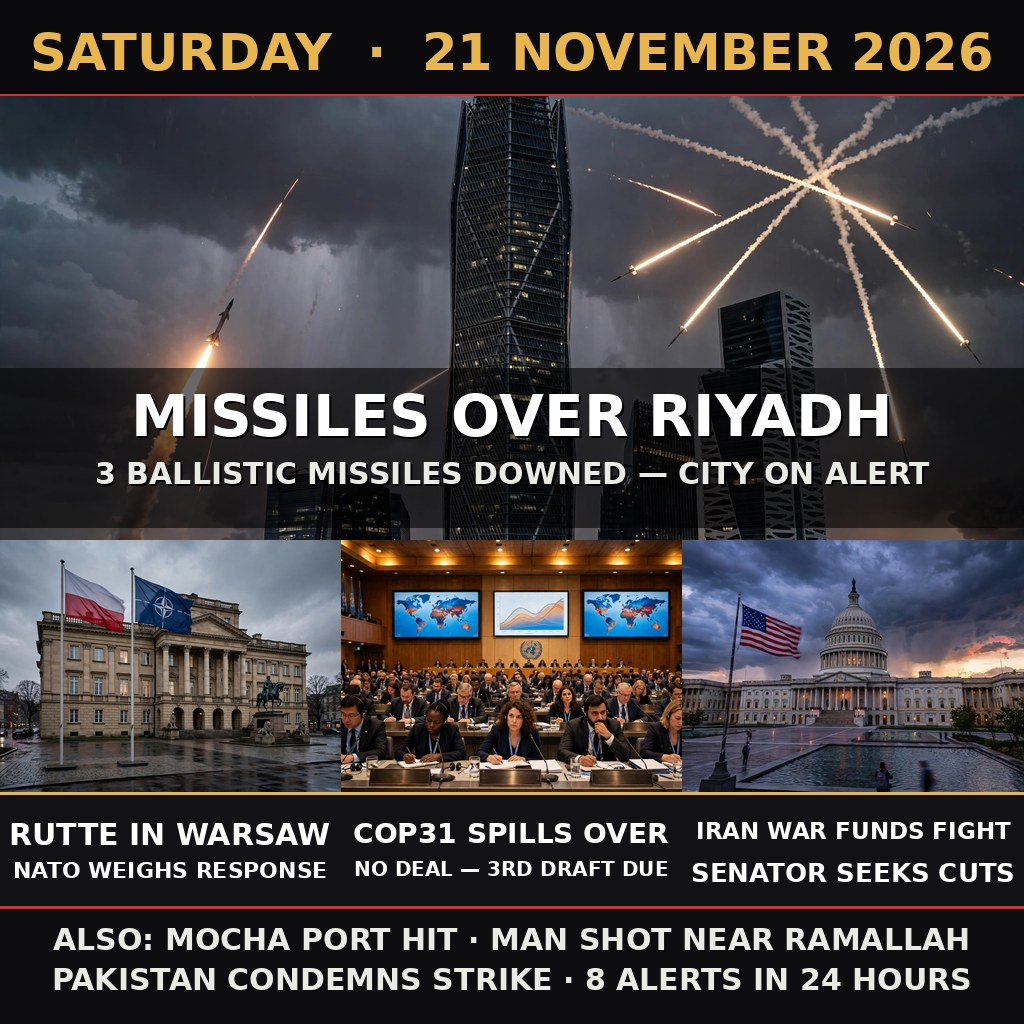
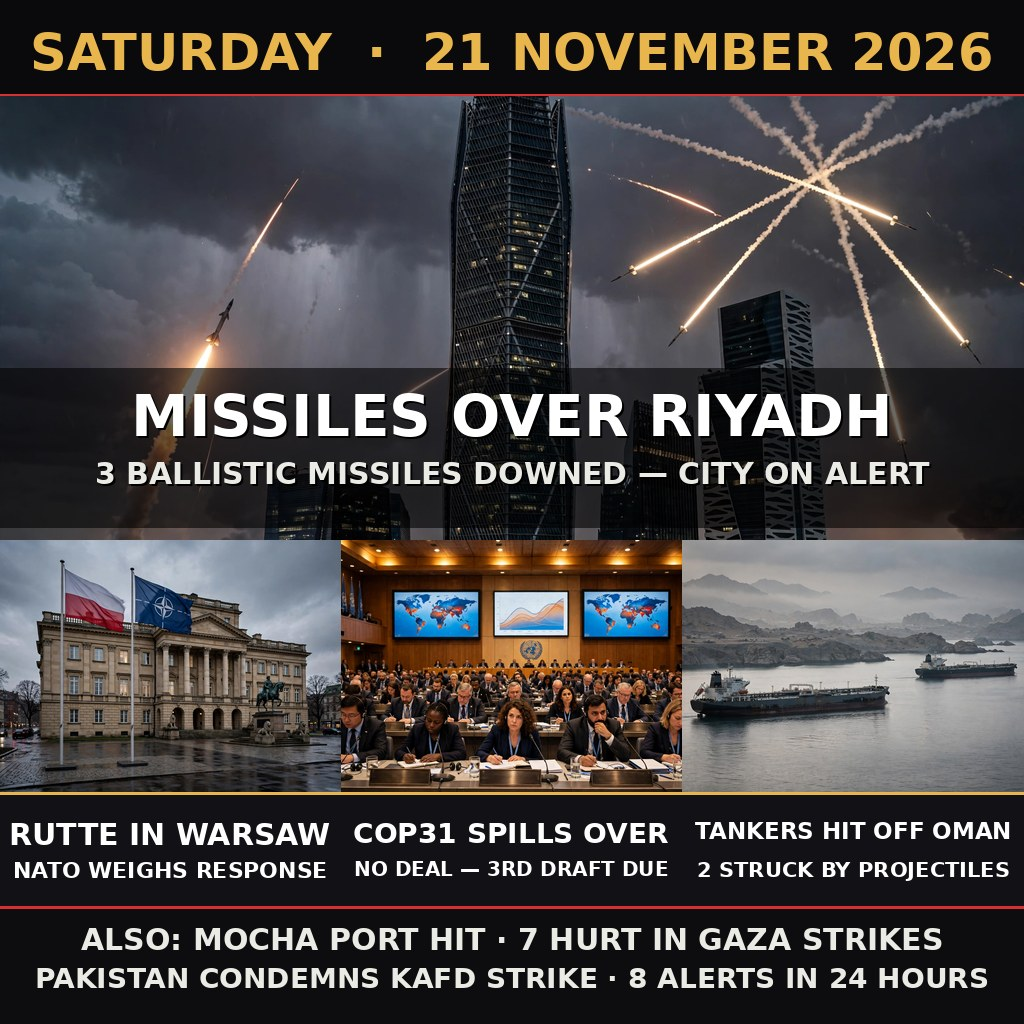
Nov 21 poster v2: tankers off Oman panel, Gaza strip fix, KAFD wording

Changed region(s): [[0.6562, 0.5, 1.0, 0.875], [0.0312, 0.9062, 0.9688, 0.9688]]

diff --git a/main.ts b/main.ts
@@ -11,3 +11,4 @@ if (!existsSync(join(here, "entry.png"))) {
 }
 const bytes = readFileSync(join(here, "entry.png"));
 writeFileSync(join(outDir, "entry.png"), bytes);
+console.log(`wrote ${bytes.length} bytes to ${join(outDir, "entry.png")}`);

diff --git a/README.md b/README.md
@@ -6,7 +6,7 @@
 
 Sum up 21 November's world news in one image: your program writes one image of the day's news, an AI judge compares the images two at a time, and the 50 best win rates share $100: $20 for 1st place, $12 for 2nd, $6 for 3rd, $2 each for 4th to 10th and $1.20 each for 11th to 50th.
 
-The entry is one editorial poster (1024×1024): the day's biggest story — Houthi missiles fired at Riyadh early on Saturday, three ballistic missiles intercepted — above three more: NATO chief Rutte's visit to Warsaw, the COP31 climate talks spilling into Saturday with no deal, and the US Senate fight over Iran war funds, with the Mocha port strike, a man shot near Ramallah, Pakistan's condemnation and eight emergency alerts in the footer. The date is named in the masthead; every headline is drawn as crisp text so the image reads at any size.
+The entry is one editorial poster (1024×1024): the day's biggest story — Houthi missiles fired at Riyadh early on Saturday, three ballistic missiles intercepted — above three more: NATO chief Rutte's visit to Warsaw, the COP31 climate talks spilling into Saturday with no deal, and two oil tankers struck by unknown projectiles off Oman, with the Mocha port strike, seven hurt in Gaza strikes, Pakistan's condemnation of the KAFD strike and eight emergency alerts in the footer. The date is named in the masthead; every headline is drawn as crisp text so the image reads at any size.
 
 ## Run it
 
